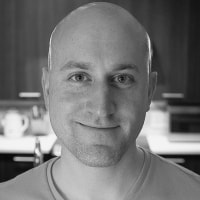
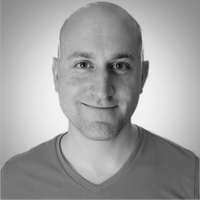
Optimize testimonial and our-story image sizes

diff --git a/psa/theme-extension/home.html b/psa/theme-extension/home.html
@@ -1187,7 +1187,18 @@
             
             <figure class="testimonials__figure testimonials__figure--active" tabindex="0">
                 <figcaption class="testimonials__author">
-                    <img src="assets/images/testimonials/ben-mauro.jpg" alt="Ben Mauro" />
+                    <img
+                        src="assets/images/testimonials/ben-mauro-200.jpg"
+                        alt="Ben Mauro"
+						srcset="
+							assets/images/testimonials/ben-mauro-100.jpg 100w,
+							assets/images/testimonials/ben-mauro-200.jpg 200w
+						"
+						sizes="
+							(max-width: 576px) 82px,
+							100px
+						"
+                    />
                     <div>Ben Mauro</div>
                     <div>Senior Concept Artist at 343 Industries</div>
                     <div></div>
@@ -1199,7 +1210,18 @@
             
             <figure class="testimonials__figure " tabindex="0">
                 <figcaption class="testimonials__author">
-                    <img src="assets/images/testimonials/scott-warren.jpg" alt="Scott Warren" />
+                    <img
+                        src="assets/images/testimonials/scott-warren-200.jpg"
+                        alt="Scott Warren"
+						srcset="
+							assets/images/testimonials/scott-warren-100.jpg 100w,
+							assets/images/testimonials/scott-warren-200.jpg 200w
+						"
+						sizes="
+							(max-width: 576px) 82px,
+							100px
+						"
+                    />
                     <div>Scott Warren</div>
                     <div>Senior Lighting Artist at Turtle Rock Studios</div>
                     <div></div>
@@ -1212,7 +1234,18 @@
             
             <figure class="testimonials__figure " tabindex="0">
                 <figcaption class="testimonials__author">
-                    <img src="assets/images/testimonials/ryan-richmond.jpg" alt="Ryan Richmond" />
+                    <img
+                        src="assets/images/testimonials/ryan-richmond-200.jpg"
+                        alt="Ryan Richmond"
+						srcset="
+							assets/images/testimonials/ryan-richmond-100.jpg 100w,
+							assets/images/testimonials/ryan-richmond-200.jpg 200w
+						"
+						sizes="
+							(max-width: 576px) 82px,
+							100px
+						"
+                    />
                     <div>Ryan Richmond</div>
                     <div>Concept Artist</div>
                     <div></div>
@@ -1224,7 +1257,18 @@
             
             <figure class="testimonials__figure " tabindex="0">
                 <figcaption class="testimonials__author">
-                    <img src="assets/images/testimonials/subin-rajendran.jpg" alt="Subin Rajendran" />
+                    <img
+                        src="assets/images/testimonials/subin-rajendran-200.jpg"
+                        alt="Subin Rajendran"
+						srcset="
+							assets/images/testimonials/subin-rajendran-100.jpg 100w,
+							assets/images/testimonials/subin-rajendran-200.jpg 200w
+						"
+						sizes="
+							(max-width: 576px) 82px,
+							100px
+						"
+                    />
                     <div>Subin Rajendran</div>
                     <div>Concept Artist</div>
                     <div></div>
@@ -1252,13 +1296,42 @@
                 </p>
             </div>
             <div>
-                <img src="assets/images/our-story/childhood.jpg" alt="Retro photo where brothers playing chess with father">
+            
+                <img
+                    src="assets/images/our-story/childhood-450.jpg"
+                    alt="Retro photo where brothers playing chess with father"
+                    srcset="
+                        assets/images/our-story/childhood-200.jpg 200w,
+                        assets/images/our-story/childhood-320.jpg 320w,
+                        assets/images/our-story/childhood-450.jpg 450w,
+                        assets/images/our-story/childhood-600.jpg 600w
+                    "
+                    sizes="
+                        (max-width: 576px) calc(100% - 80px),
+                        (max-width: 930px) 34.27vw,
+                        24.97vw
+                    "
+                >
             </div>
         </div>
 
         <div class="our-story__row">
             <div>
-                <img src="assets/images/our-story/nowadays.jpg" alt="Martinsh with his son during winter-time">
+                <img
+                    src="assets/images/our-story/nowadays-450.jpg"
+                    alt="Martinsh with his son during winter-time"
+                    srcset="
+                        assets/images/our-story/nowadays-200.jpg 200w,
+                        assets/images/our-story/nowadays-320.jpg 320w,
+                        assets/images/our-story/nowadays-450.jpg 450w,
+                        assets/images/our-story/nowadays-600.jpg 600w
+                    "
+                    sizes="
+                        24.97vw,
+                        (max-width: 930px) 34.27vw,
+                        (max-width: 576px) calc(100% - 80px)
+                    "
+                >
             </div>
             <div>
                 <p>

diff --git a/psa/theme-extension/overrides/home.html b/psa/theme-extension/overrides/home.html
@@ -1187,7 +1187,18 @@
             
             <figure class="testimonials__figure testimonials__figure--active" tabindex="0">
                 <figcaption class="testimonials__author">
-                    <img src="assets/images/testimonials/ben-mauro.jpg" alt="Ben Mauro" />
+                    <img
+                        src="assets/images/testimonials/ben-mauro-200.jpg"
+                        alt="Ben Mauro"
+						srcset="
+							assets/images/testimonials/ben-mauro-100.jpg 100w,
+							assets/images/testimonials/ben-mauro-200.jpg 200w
+						"
+						sizes="
+							(max-width: 576px) 82px,
+							100px
+						"
+                    />
                     <div>Ben Mauro</div>
                     <div>Senior Concept Artist at 343 Industries</div>
                     <div></div>
@@ -1199,7 +1210,18 @@
             
             <figure class="testimonials__figure " tabindex="0">
                 <figcaption class="testimonials__author">
-                    <img src="assets/images/testimonials/scott-warren.jpg" alt="Scott Warren" />
+                    <img
+                        src="assets/images/testimonials/scott-warren-200.jpg"
+                        alt="Scott Warren"
+						srcset="
+							assets/images/testimonials/scott-warren-100.jpg 100w,
+							assets/images/testimonials/scott-warren-200.jpg 200w
+						"
+						sizes="
+							(max-width: 576px) 82px,
+							100px
+						"
+                    />
                     <div>Scott Warren</div>
                     <div>Senior Lighting Artist at Turtle Rock Studios</div>
                     <div></div>
@@ -1212,7 +1234,18 @@
             
             <figure class="testimonials__figure " tabindex="0">
                 <figcaption class="testimonials__author">
-                    <img src="assets/images/testimonials/ryan-richmond.jpg" alt="Ryan Richmond" />
+                    <img
+                        src="assets/images/testimonials/ryan-richmond-200.jpg"
+                        alt="Ryan Richmond"
+						srcset="
+							assets/images/testimonials/ryan-richmond-100.jpg 100w,
+							assets/images/testimonials/ryan-richmond-200.jpg 200w
+						"
+						sizes="
+							(max-width: 576px) 82px,
+							100px
+						"
+                    />
                     <div>Ryan Richmond</div>
                     <div>Concept Artist</div>
                     <div></div>
@@ -1224,7 +1257,18 @@
             
             <figure class="testimonials__figure " tabindex="0">
                 <figcaption class="testimonials__author">
-                    <img src="assets/images/testimonials/subin-rajendran.jpg" alt="Subin Rajendran" />
+                    <img
+                        src="assets/images/testimonials/subin-rajendran-200.jpg"
+                        alt="Subin Rajendran"
+						srcset="
+							assets/images/testimonials/subin-rajendran-100.jpg 100w,
+							assets/images/testimonials/subin-rajendran-200.jpg 200w
+						"
+						sizes="
+							(max-width: 576px) 82px,
+							100px
+						"
+                    />
                     <div>Subin Rajendran</div>
                     <div>Concept Artist</div>
                     <div></div>
@@ -1252,13 +1296,42 @@
                 </p>
             </div>
             <div>
-                <img src="assets/images/our-story/childhood.jpg" alt="Retro photo where brothers playing chess with father">
+            
+                <img
+                    src="assets/images/our-story/childhood-450.jpg"
+                    alt="Retro photo where brothers playing chess with father"
+                    srcset="
+                        assets/images/our-story/childhood-200.jpg 200w,
+                        assets/images/our-story/childhood-320.jpg 320w,
+                        assets/images/our-story/childhood-450.jpg 450w,
+                        assets/images/our-story/childhood-600.jpg 600w
+                    "
+                    sizes="
+                        (max-width: 576px) calc(100% - 80px),
+                        (max-width: 930px) 34.27vw,
+                        24.97vw
+                    "
+                >
             </div>
         </div>
 
         <div class="our-story__row">
             <div>
-                <img src="assets/images/our-story/nowadays.jpg" alt="Martinsh with his son during winter-time">
+                <img
+                    src="assets/images/our-story/nowadays-450.jpg"
+                    alt="Martinsh with his son during winter-time"
+                    srcset="
+                        assets/images/our-story/nowadays-200.jpg 200w,
+                        assets/images/our-story/nowadays-320.jpg 320w,
+                        assets/images/our-story/nowadays-450.jpg 450w,
+                        assets/images/our-story/nowadays-600.jpg 600w
+                    "
+                    sizes="
+                        24.97vw,
+                        (max-width: 930px) 34.27vw,
+                        (max-width: 576px) calc(100% - 80px)
+                    "
+                >
             </div>
             <div>
                 <p>

diff --git a/psa/src/gulpfile.js b/psa/src/gulpfile.js
@@ -155,6 +155,71 @@ gulp.task("images-presets", function () {
 	  .pipe(gulp.dest(destroot + "assets/images/gallery"));
   });
 
+  gulp.task("images-testimonials", function () {
+	return gulp
+	  .src("images/testimonials/*.jpg")
+	  .pipe(
+		responsive(
+		  {
+			"*.jpg": [
+			  {
+				width: 100,
+				rename: { suffix: "-100" },
+			  },
+			  {
+				width: 200,
+				rename: { suffix: "-200" },
+			  },
+			],
+		  },
+		  {
+			// Global configuration for all images
+			quality: 95,
+			progressive: true,
+			withMetadata: false,
+		  }
+		)
+	  )
+	  .pipe(gulp.dest(destroot + "assets/images/testimonials"));
+  });
+
+  gulp.task("images-ourstory", function () {
+	return gulp
+	  .src("images/our-story/*.jpg")
+	  .pipe(
+		responsive(
+		  {
+			"*.jpg": [
+			  {
+				width: 100,
+				rename: { suffix: "-200" },
+			  },
+			  {
+				width: 320,
+				rename: { suffix: "-320" },
+			  },
+			  {
+				width: 450,
+				rename: { suffix: "-450" },
+			  },
+			  {
+				width: 600,
+				rename: { suffix: "-600" },
+			  },
+			],
+		  },
+		  {
+			// Global configuration for all images
+			quality: 95,
+			progressive: true,
+			withMetadata: false,
+		  }
+		)
+	  )
+	  .pipe(gulp.dest(destroot + "assets/images/our-story"));
+  });
+
+
 gulp.task("watch", function () {
   gulp.watch("./**/*.scss", gulp.series("css"));
   gulp.watch("./**/*.twig", gulp.series("compile"));
